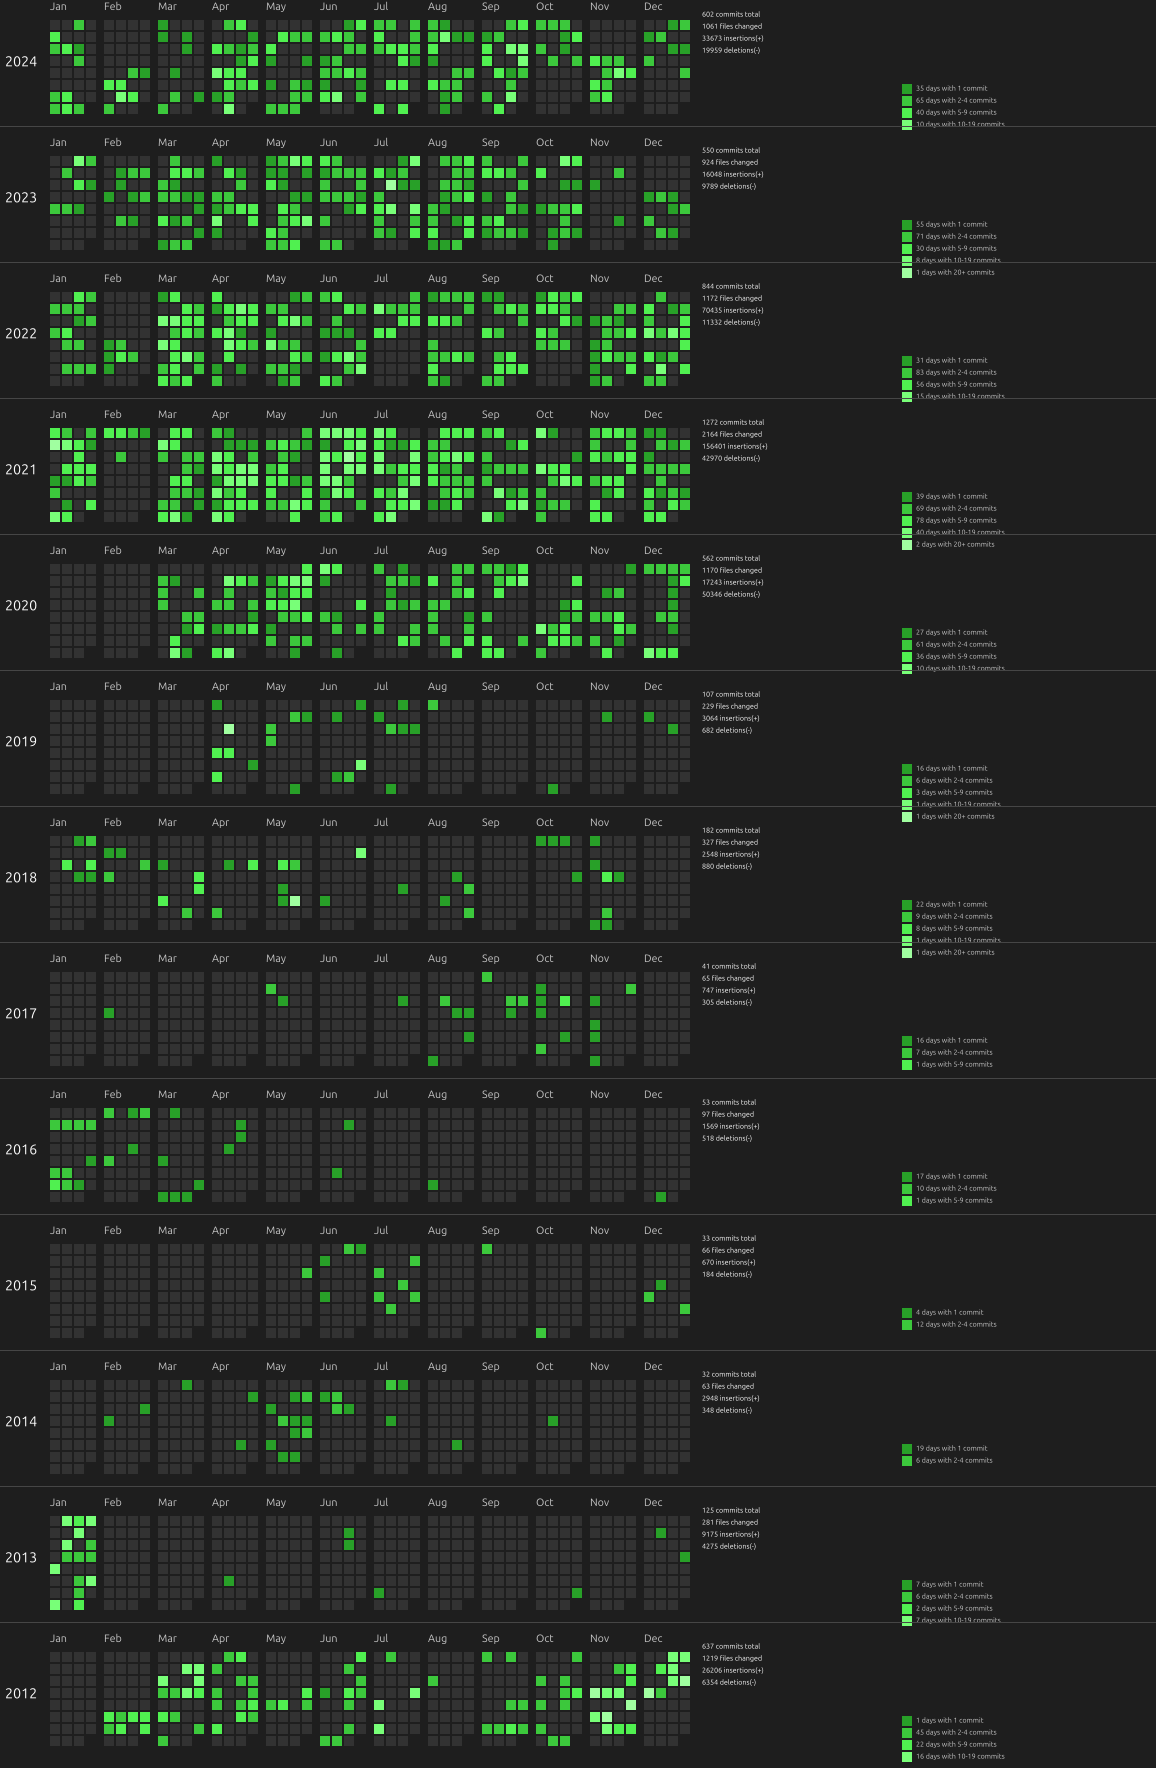
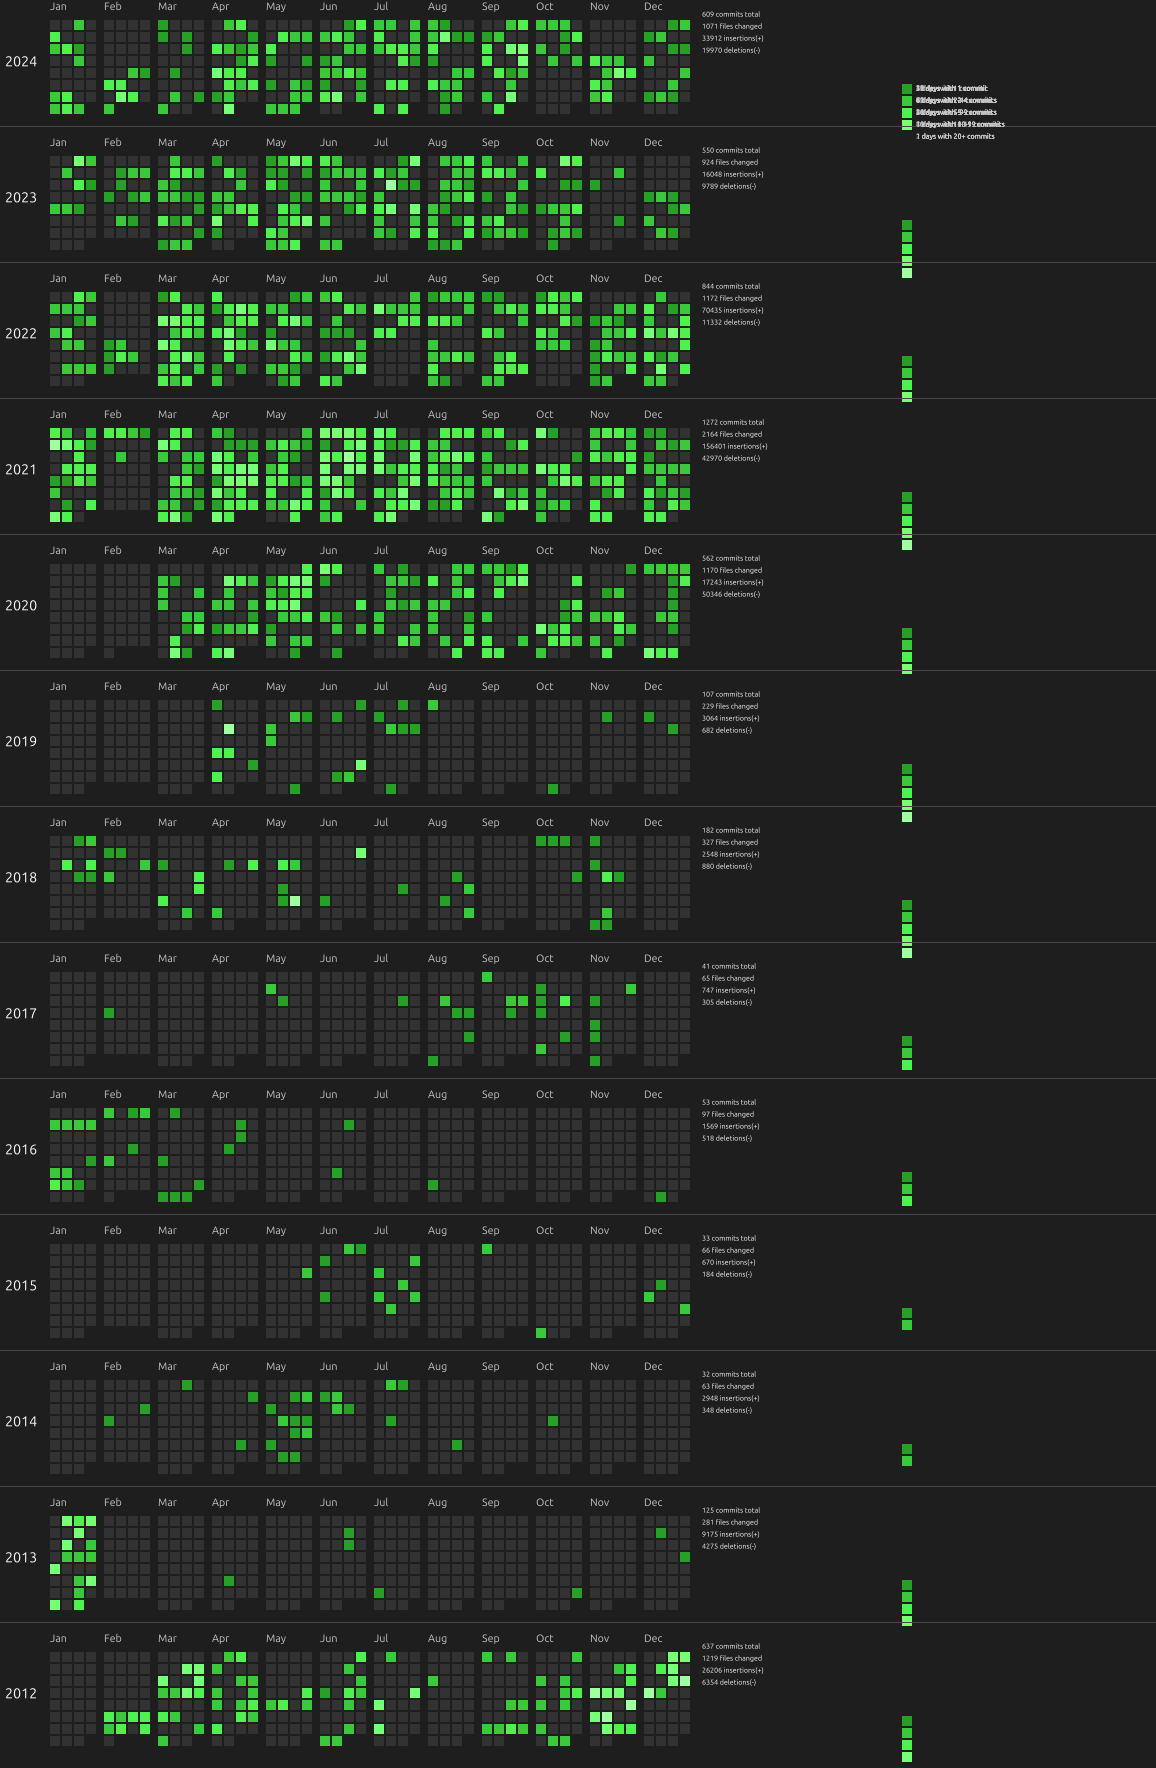
Fix the day blocks in each month.

diff --git a/main.rs b/main.rs
@@ -291,15 +291,31 @@ fn generate_commit_image(author: &str, repos: &[String], theme_name: &str) -> Im
             }
 
             // Draw all days in a grid
-            for day in 1..=31 {
+            let days_in_month = match month {
+                1 => 31, // January
+                2 => if year % 4 == 0 && (year % 100 != 0 || year % 400 == 0) { 29 } else { 28 }, // February
+                3 => 31, // March
+                4 => 30, // April
+                5 => 31, // May
+                6 => 30, // June
+                7 => 31, // July
+                8 => 31, // August
+                9 => 30, // September
+                10 => 31, // October
+                11 => 30, // November
+                12 => 31, // December
+                _ => 0, // Invalid month
+            };
+
+            for day in 1..=days_in_month {  // Adjusted to use days_in_month
                 let col = (day - 1) % month_grid_width;
                 let row = (day - 1) / month_grid_width;
-                
-                let x = month_x_offset + col * (block_size + space_size);
-                let y = year_offset + month_label_height + row * (block_size + space_size);
 
                 // Only draw if within bounds
-                if row < month_grid_height {
+                if row < month_grid_height && day <= days_in_month {  // Ensure we only draw within the grid height and valid days
+                    let x = month_x_offset + col * (block_size + space_size);
+                    let y = year_offset + month_label_height + row * (block_size + space_size);
+
                     // Set color based on number of commits
                     let color_value = if let Some(date) = NaiveDate::from_ymd_opt(year, month, day) {
                         if let Some(&count) = commit_count_per_day.get(&date) {
@@ -316,7 +332,7 @@ fn generate_commit_image(author: &str, repos: &[String], theme_name: &str) -> Im
                         for bx in 0..block_size {
                             let pixel_x = x + bx;
                             let pixel_y = y + by;
-                            
+
                             if pixel_x < img.width() && pixel_y < img.height() {
                                 img.put_pixel(pixel_x, pixel_y, color_value);
                             }
@@ -421,7 +437,7 @@ fn generate_commit_image(author: &str, repos: &[String], theme_name: &str) -> Im
                         &mut img,
                         &level_text,
                         text_x as i32,
-                        (year_offset + (i as u32 + 7) * (block_size + space_size)) as i32,
+                        ((i as u32 + 7) * (block_size + space_size)) as i32,
                         block_size as f32 * 0.8,
                         theme.text_secondary,
                         &font
